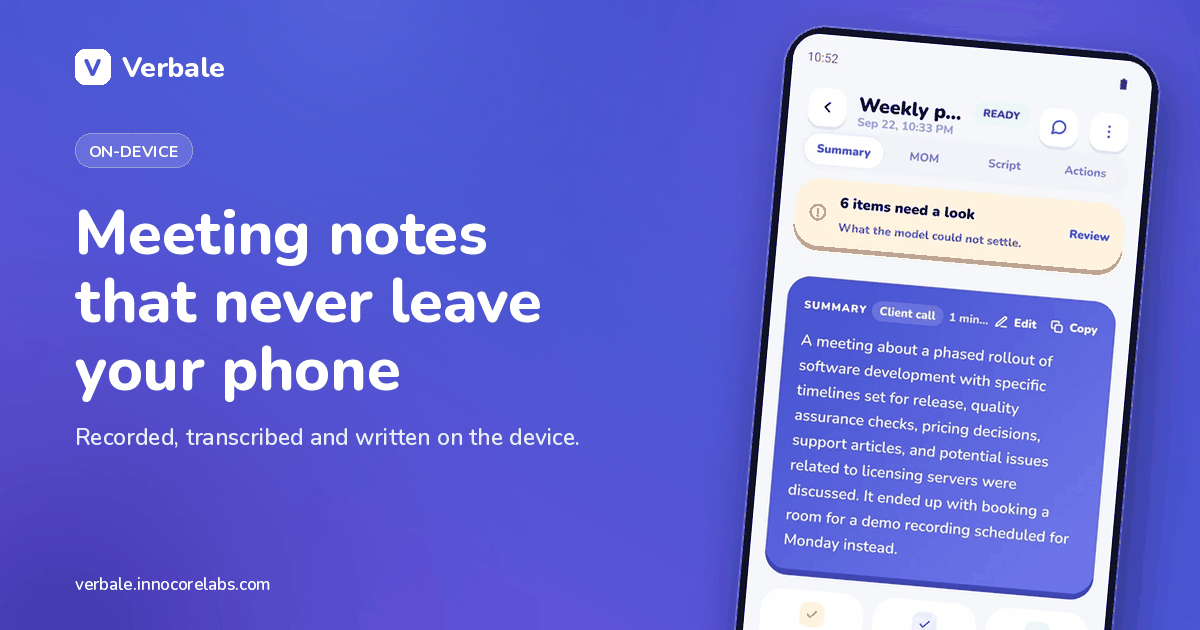
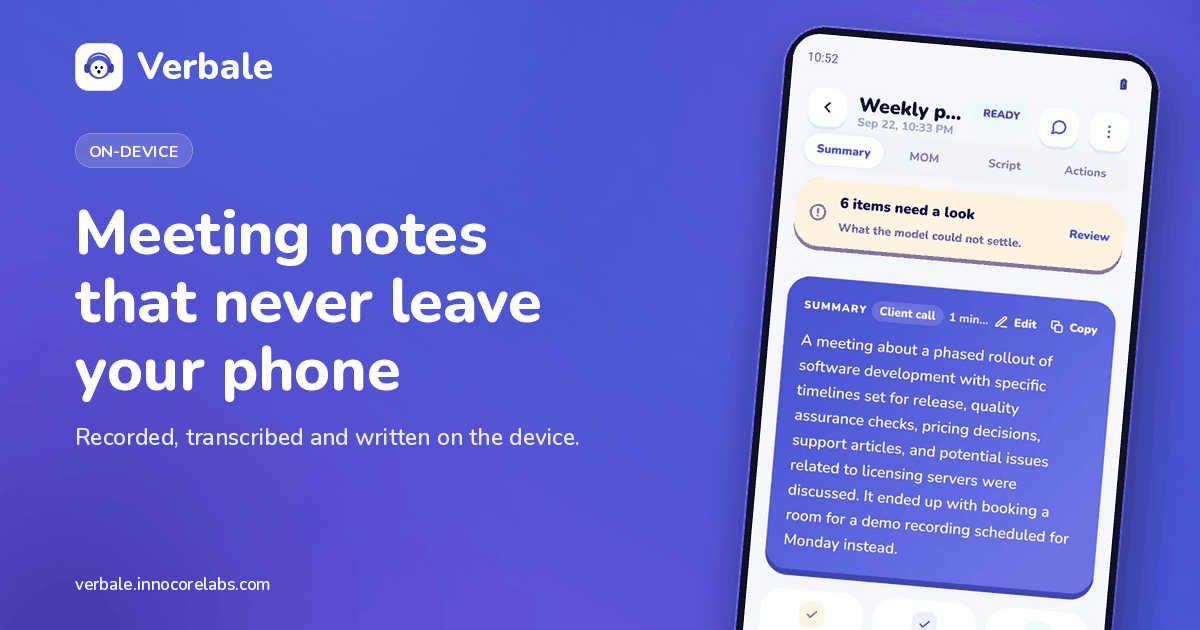
feat(site): real mascot tile in generated covers and og.png

diff --git a/server/tools/make_images.py b/server/tools/make_images.py
@@ -30,6 +30,7 @@ HERE = Path(__file__).resolve().parent
 SERVER = HERE.parent
 REPO = SERVER.parent
 FONTS = REPO / "assets" / "fonts"
+MASCOT = HERE / "assets" / "mascot-tile.png"
 STORE = REPO / "docs" / "store" / "screenshots"
 
 #: Store frame file -> name used in `/static/shots/<name>.webp` and in a post's `shot:` field.
@@ -159,11 +160,8 @@ def fit_title(draw, text: str, maxw: float, maxh: float, start: int, max_lines: 
 
 
 def mark(img: Image.Image, x: int, y: int, s: int) -> int:
-    """Small app-icon-style tile with a V, plus the wordmark. Returns the right edge."""
-    tile = Image.new("RGBA", (s, s), (0, 0, 0, 0))
-    td = ImageDraw.Draw(tile)
-    td.rounded_rectangle([0, 0, s - 1, s - 1], radius=int(s * 0.3), fill=(255, 255, 255, 255))
-    td.text((s / 2, s / 2 + s * 0.02), "V", font=font("Black", s * 0.66), fill=INDIGO, anchor="mm")
+    """The real mascot on its white tile (tools/assets/mascot-tile.png), plus the wordmark. Returns the right edge."""
+    tile = Image.open(MASCOT).convert("RGBA").resize((s, s), Image.LANCZOS)
     img.alpha_composite(tile, (x, y))
     d = ImageDraw.Draw(img)
     f = font("ExtraBold", s * 0.78)
@@ -214,7 +212,7 @@ def render(w: int, h: int, headline: str, shot: Image.Image, kicker: str,
     ph = phone(shot, pw, angle)
     _paste_clipped(img, ph, round(w * 0.635) - (ph.width - pw) // 2, round(h * 0.10) - (ph.width - pw) // 2)
 
-    mark(img, left, round(70 * s), round(52 * s))
+    mark(img, left, round(62 * s), round(68 * s))
 
     text_w = w * 0.57 - left
     top = 190 * s
